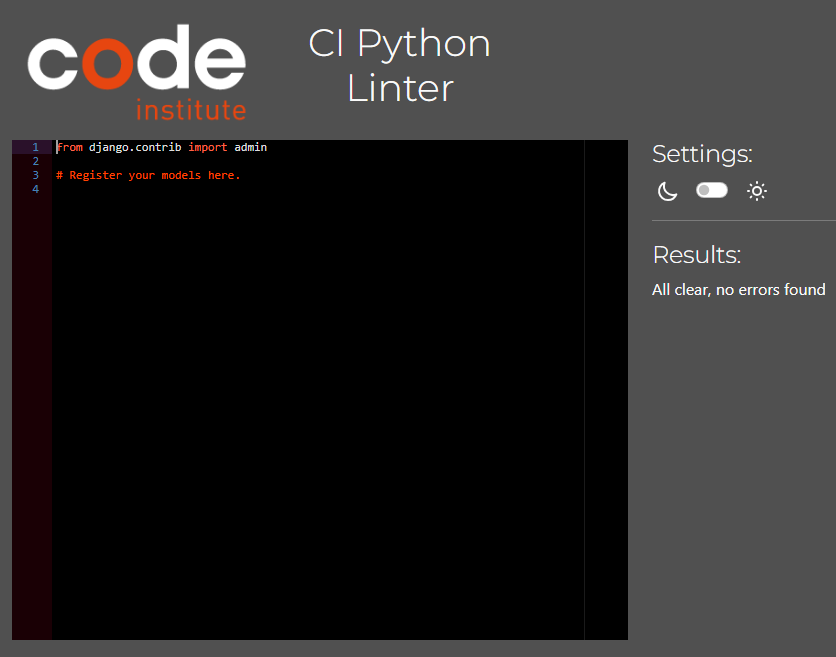
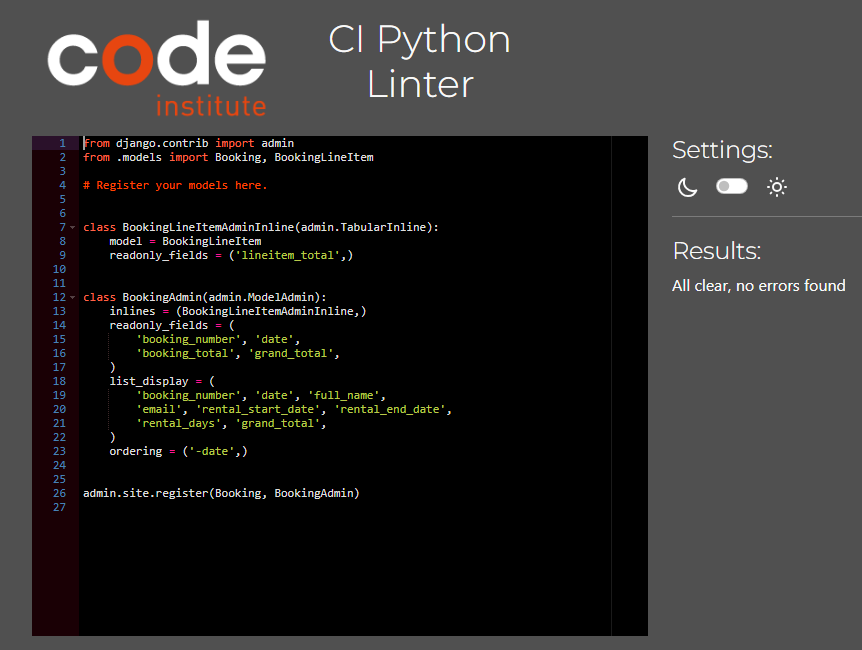
Update README with ERD tool, stock limitation, known limitations and retake checkout admin PEP8 screenshot

diff --git a/README.md b/README.md
@@ -34,6 +34,7 @@ The application focuses on clean UX design, accessibility, and secure authentica
 - [Features](#features)
   - [Existing Features](#existing-features)
   - [Future Enhancements](#future-enhancements)
+  - [Known Limitations](#known-limitations)
 - [Data Model & Relationships](#data-model--relationships)
   - [Entity Relationship Diagram](#entity-relationship-diagram)
   - [Database Models](#database-models)
@@ -495,6 +496,16 @@ Custom error pages are implemented to maintain visual consistency when errors oc
 - **Product Reviews** — Allow authenticated users to leave reviews and ratings on products they have rented.
 - **Email notifications for low stock** — Automatically notify the store owner when a product size reaches zero stock.
 - **Discount codes** — Allow store owners to create promotional discount codes for checkout.
+- **Date-based stock availability** — Currently stock is decremented on booking confirmation and does not automatically restore after the rental period ends. The store owner would need to manually update stock in the admin after items are returned. A future enhancement would be to implement date-based availability so stock automatically calculates availability based on rental dates, meaning the same item could be rented multiple times across different date ranges.
+
+[Back to contents](#contents)
+
+---
+
+### Known Limitations
+
+- **Stock management** — Stock is decremented on booking confirmation and does not automatically restore after the rental period ends. Store owners must manually restore stock via the admin panel when items are returned. This is a known limitation and is documented as a future enhancement.
+
 [Back to contents](#contents)
  
 ---
@@ -503,6 +514,8 @@ Custom error pages are implemented to maintain visual consistency when errors oc
 The GlacierGear application uses a relational database structure. The main models are: User, UserProfile, Category, Product, ProductSize, Booking, and BookingLineItem.
  
 ### Entity Relationship Diagram
+
+The ERD was created using [dbdiagram.io](https://dbdiagram.io/).
  
 ![Entity Relationship Diagram](docs/entity_relationship_diagram.png)
  
@@ -678,6 +691,7 @@ Stores individual items within a booking.
 | [Heroku](https://www.heroku.com/) | Deploy and host the live application | Platform |
 | [Neon](https://neon.tech/) | Managed PostgreSQL database provider | Service |
 | [Balsamiq](https://balsamiq.com/) | Wireframes for planning layout and user flow | Tool |
+| [dbdiagram.io](https://dbdiagram.io/) | Entity Relationship Diagram | Tool |
 | [Coolors](https://coolors.co/) | Colour palette generation | Tool |
 | [W3C HTML Validator](https://validator.w3.org/) | Validate HTML structure | Tool |
 | [W3C CSS Validator](https://jigsaw.w3.org/css-validator/) | Validate CSS syntax | Tool |
@@ -842,7 +856,7 @@ I have used the recommended [CI Python Linter](https://pep8ci.herokuapp.com) to 
 | User Story | Result | Pass | Evidence |
 |-----------|--------|------|----------|
 | Browse all products without an account | Products page accessible without login | Yes | ![](docs/products_desktop.png) |
-| Filter products by category, size, and colour | Filters apply correctly and update results | Yes | ![](docs/products_filters.png) |
+| Filter products by category, size, and colour | Filters apply correctly and update results | Yes | ![](docs/product_filters.png) |
 | Search for products by keyword | Search returns relevant results | Yes | ![](docs/search_results.png) |
 | View product details including sizes and pricing | Product detail page shows all info | Yes | ![](docs/product_detail_desktop.png) |
  
